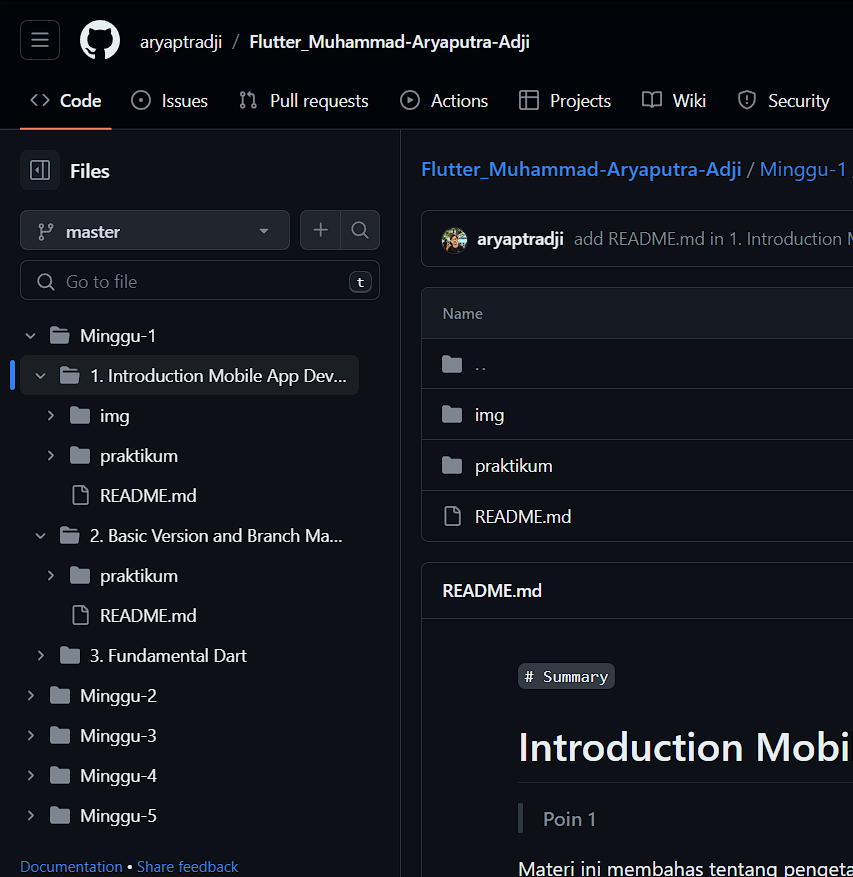
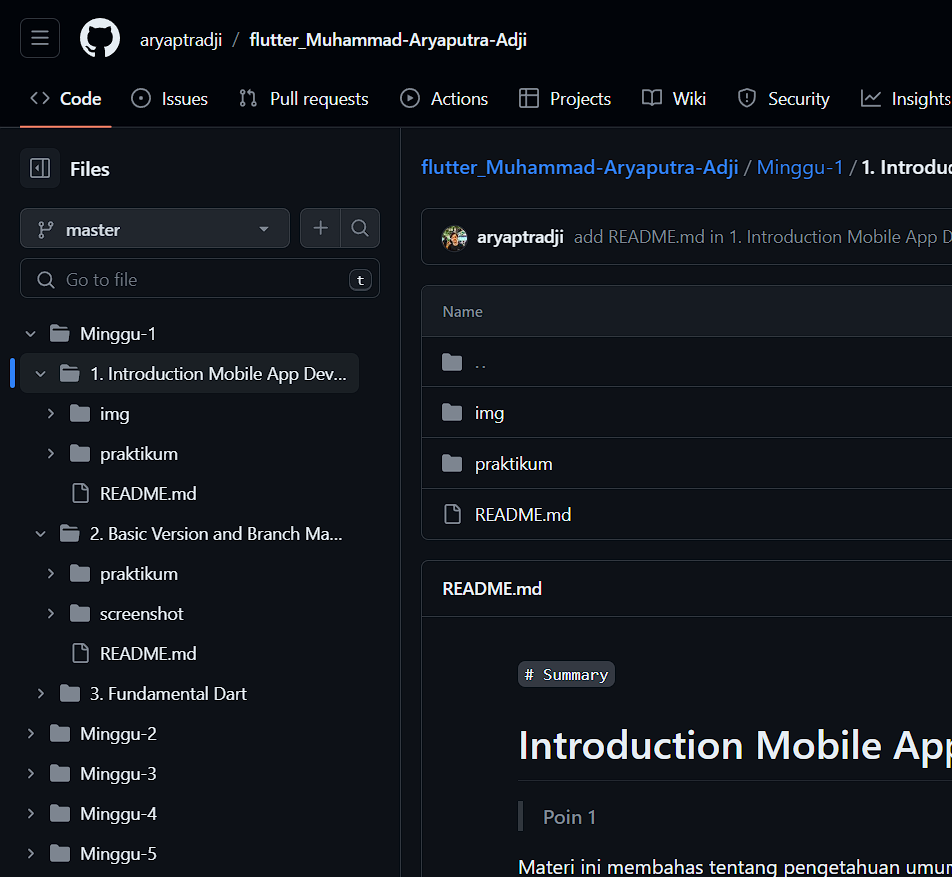
edit repo name and screenshot file in Minggu-1/2. Git/praktikum/README.md

diff --git a/Minggu-1/2. Basic Version and Branch Management (Git)/praktikum/README.md b/Minggu-1/2. Basic Version and Branch Management (Git)/praktikum/README.md
@@ -2,7 +2,7 @@
 # Basic Version and Branch Management (Git)
 
 > <h2 style="border-bottom:none">Soal Prioritas 1</h2>
-- Saya telah membuat repository dengan nama ``Flutter_Muhammad-Aryaputra-Adji``
+- Saya telah membuat repository dengan nama ``flutter_Muhammad-Aryaputra-Adji``
 - Saya menggunakan format folder tugas sebagai berikut :   
   ``Minggu-1/``  
   &emsp;``1. Judul Materi 1 pada Minggu-1``  
